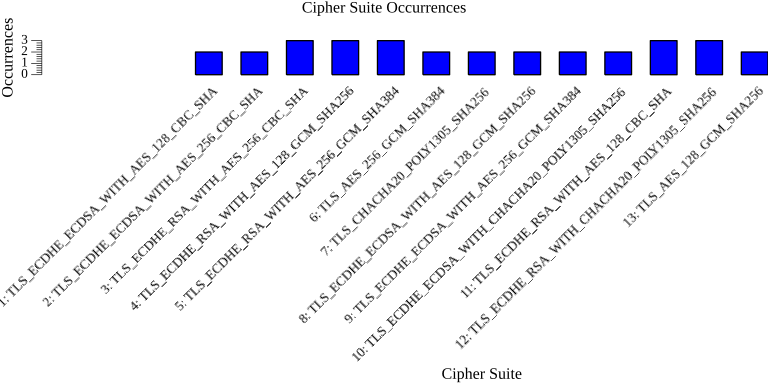
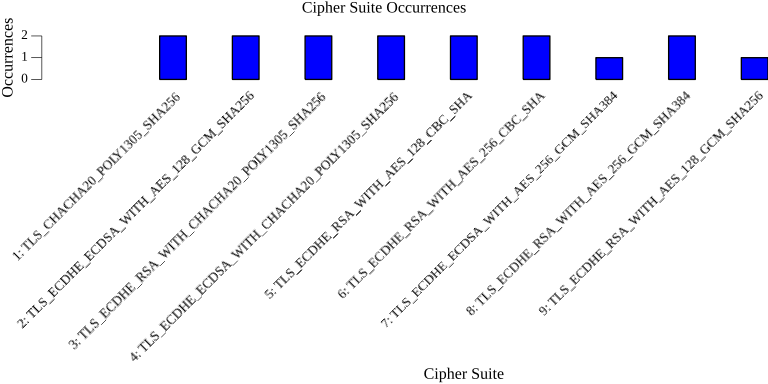
y axis integer ticks implemented

diff --git a/analyzer.go b/analyzer.go
@@ -8,12 +8,16 @@ import (
 	"math"
 	"strings"
 	"sync"
+	"strconv"
+	
 	//"github.com/gonum/plot/vg"
 	"gonum.org/v1/plot"
 	"gonum.org/v1/plot/plotter"
 	"gonum.org/v1/plot/vg"
 	"gonum.org/v1/plot/vg/draw"
 )
+
+type IntegerTicks struct {}
 
 type Analyzer struct {
 	ScannedCiphers []string
@@ -144,6 +148,7 @@ func (a *Analyzer) PlotResults(outputFile string, cipherCount map[string]int)err
 	// Set the X-axis tick label rotation and alignment
 	p.X.Tick.Label.Rotation = math.Pi / 4 // 45 degrees
 	p.X.Tick.Label.XAlign = draw.XRight
+	p.Y.Tick.Marker = IntegerTicks{}
 
 	// Save the plot to a PNG file
     if err := p.Save(8*vg.Inch, 4*vg.Inch, outputFile); err != nil {
@@ -153,4 +158,25 @@ func (a *Analyzer) PlotResults(outputFile string, cipherCount map[string]int)err
 
     return nil
 
+}
+
+
+// Ticks generates the ticks for an axis ranging from min to max.
+func (IntegerTicks) Ticks(min, max float64) []plot.Tick {
+    var ticks []plot.Tick
+    for value := math.Floor(min); value <= max; value++ {
+        if value >= min && value <= max {
+            ticks = append(ticks, plot.Tick{
+                Value: value,
+                Label: formatFloatTick(value, 0), // 0 precision for integer labels
+            })
+        }
+    }
+    return ticks
+}
+
+// formatFloatTick formats tick labels.
+func formatFloatTick(v float64, prec int) string {
+    // As we're using this only for integer ticks, we can format with no decimal places.
+    return strconv.FormatFloat(v, 'f', prec, 64)
 }
